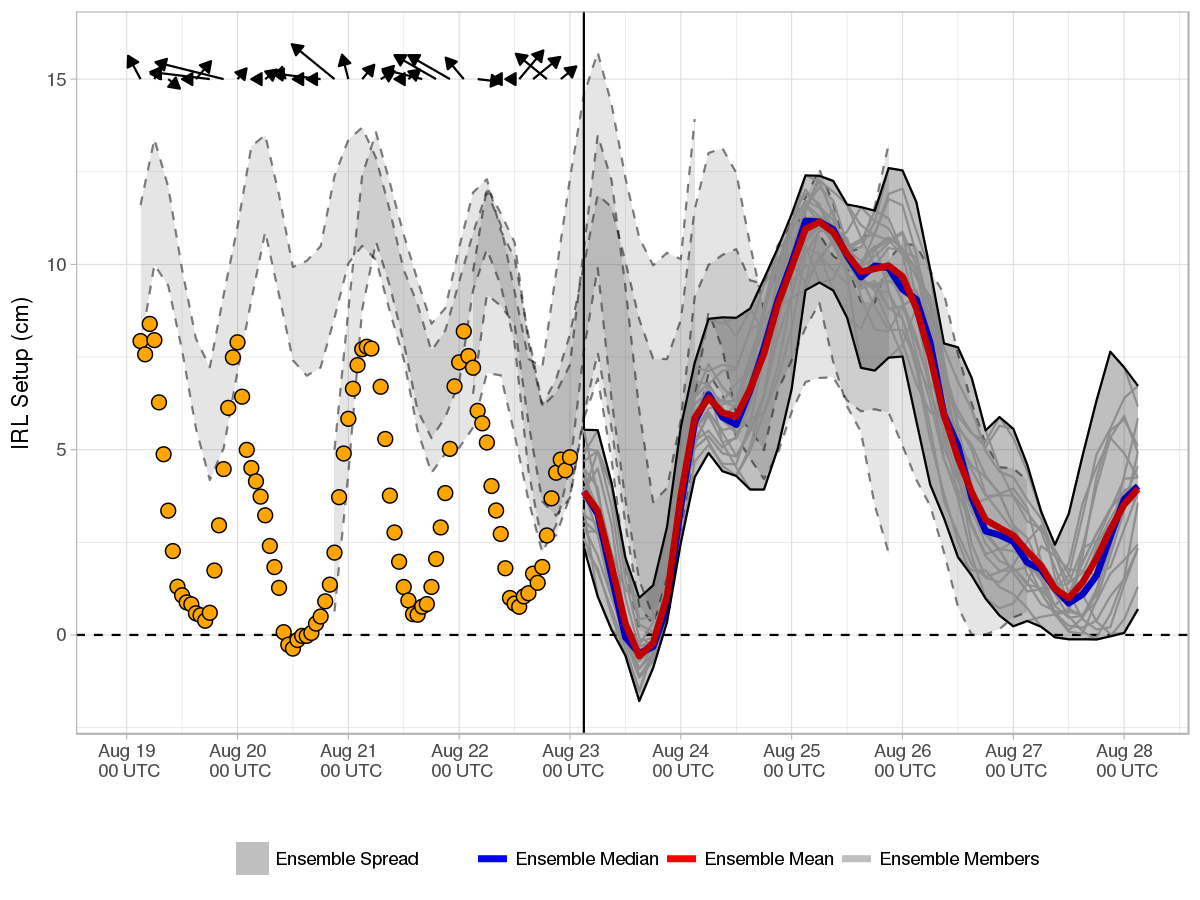
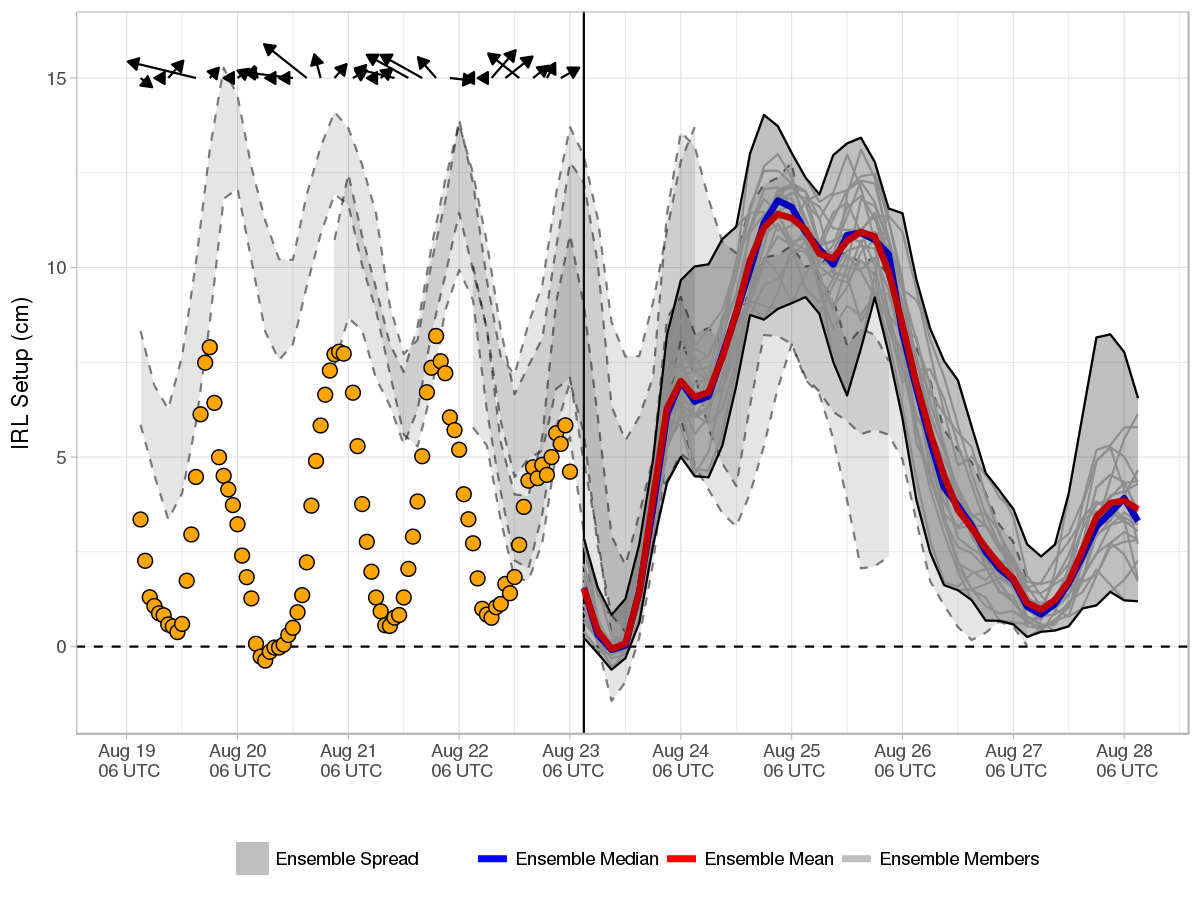
Forecast Update

Changed region(s): [[0.0925, 0.0311, 0.9558, 0.7778], [0.0308, 0.4978, 0.0617, 0.5289], [0.0308, 0.28, 0.0617, 0.3111]]

diff --git a/docs/index.md b/docs/index.md
@@ -1,9 +1,9 @@
-Current Forecast 2018-08-22, Cycle 18 UTC
+Current Forecast 2018-08-23, Cycle 00 UTC
 -----------------------------------------
 
 [![](img/raw_setup.png)](https://fit-winds.github.io/IRLSetup/img/raw_setup.png)
 
-> Forecast valid 2018-08-22 20:36:09.
+> Forecast valid 2018-08-23 02:33:11.
 
 Explanation
 -----------
@@ -23,7 +23,7 @@ Ensemble Forecast System
 cycles. Calculation of the IRL setup is performed shortly after a new
 GEFS cycle is made available on the [data access
 link](http://www.ftp.ncep.noaa.gov/data/nccf/com/gens/prod/). The
-current cycle 2018-08-22 18 UTC 0.5° GEFS mean and median forecasts of
+current cycle 2018-08-23 00 UTC 0.5° GEFS mean and median forecasts of
 setup are represented by the red and blue curves, respectively. Ensemble
 spread from the current and three previous GEFS runs are shaded grey and
 bounded by solid and dashed curves, respectively.
